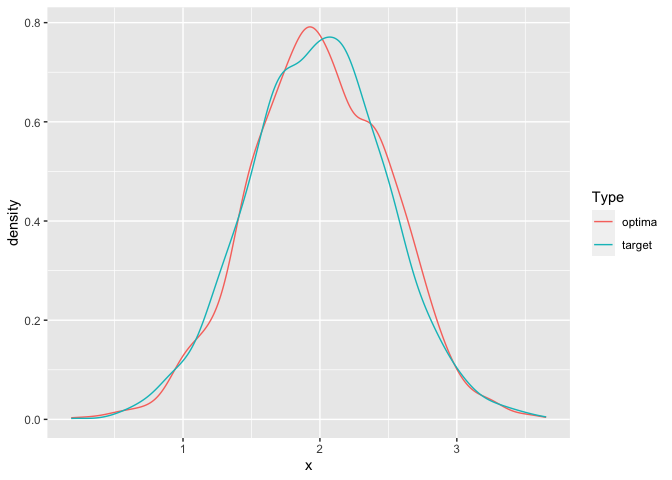
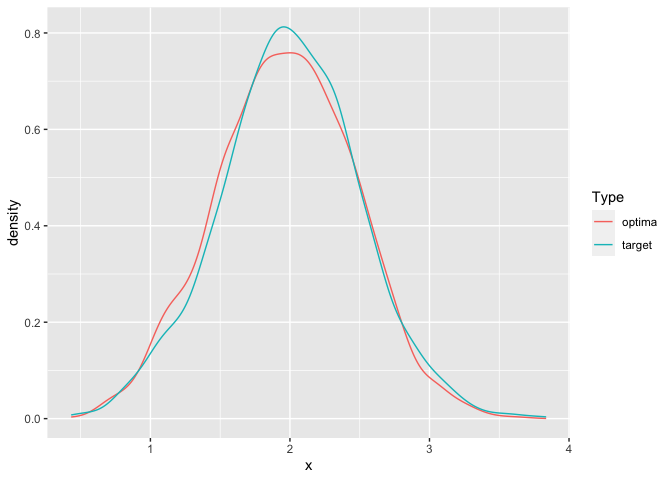
Remove duplicate badge. Use our new helper in the readme

diff --git a/README.md b/README.md
@@ -5,7 +5,6 @@
 
 <!-- badges: start -->
 
-[![R-CMD-check](https://github.com/hhau/pbbo/workflows/R-CMD-check/badge.svg)](https://github.com/hhau/pbbo/actions)
 [![R-CMD-check](https://github.com/hhau/pbbo/actions/workflows/R-CMD-check.yaml/badge.svg)](https://github.com/hhau/pbbo/actions/workflows/R-CMD-check.yaml)
 <!-- badges: end -->
 
@@ -81,16 +80,15 @@ pbbo_res <- suppressWarnings(pbbo(
   bayes_opt_iters_per_batch = 50,
   bayes_opt_design_points_per_batch = 40
 ))
-#> INFO [2022-06-29 15:47:22] Starting stage one CRS2 optimiser
-#> INFO [2022-06-29 15:47:31] Starting Bayes opt batch 1
+#> INFO [2022-06-29 15:51:33] Starting stage one CRS2 optimiser
+#> INFO [2022-06-29 15:51:39] Starting Bayes opt batch 1
 
-opt_lambda <- pbbo_res[[1]]$x
+opt_lambda <- pbbo_res %>%
+  get_best_lambda()
+
 print(opt_lambda)
-#> $mu
-#> [1] 1.996942
-#> 
-#> $sigma
-#> [1] 0.4965958
+#>        mu     sigma 
+#> 1.9656182 0.5028791
 ```
 
 We can compare the prior predictive distribution at the optima against
@@ -104,7 +102,7 @@ n_samples <- 2e3
 
 plot_tbl <- tibble(
   x = c(
-    prior_predictive_sampler(n_samples, unlist(opt_lambda)),
+    prior_predictive_sampler(n_samples, opt_lambda),
     target_sampler(n_samples)
   ),
   grp = rep(c("optima", "target"), each = n_samples)
